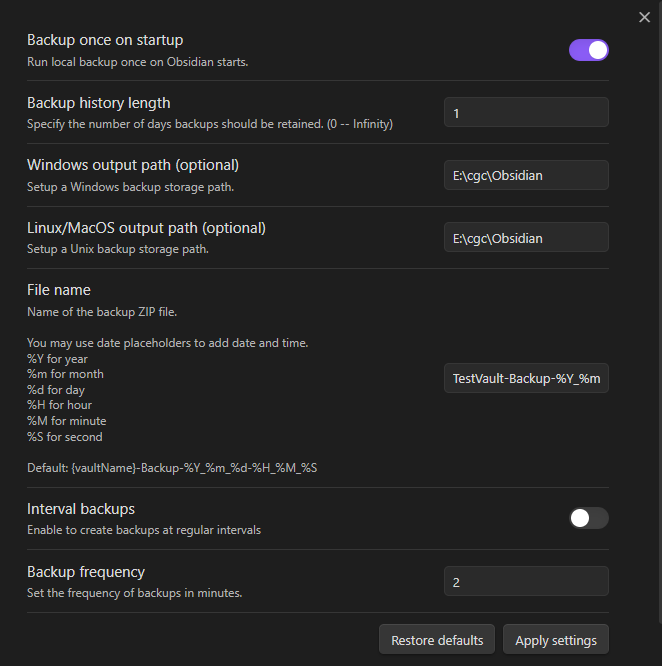
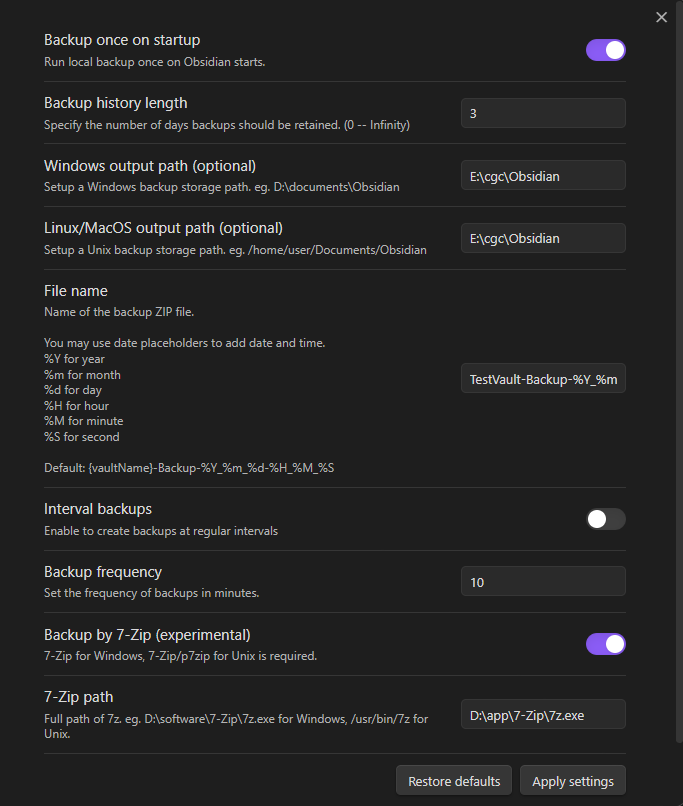
update: screenshot and README.

diff --git a/README.md b/README.md
@@ -11,7 +11,7 @@ Automatically creates a local backup of the vault.
 - Backup on startup
 - Setup backups' lifecycle
 - Customize output path
-- Inteval backups
+- Interval backups
 
 ## How to use
 
@@ -24,12 +24,13 @@ Automatically creates a local backup of the vault.
 1. Setup the output path depends on your computer platform.
 2. Setup the Windows and Unix output path while you using these two platforms.
 3. If you want to keep one backup per day, here is an example of file name format: `TestVault-Backup-%Y_%m_%d`
+4. (Experimental) If you have a large size vault and Obsidian stucks on backing up, please try the experimental feature in setting page.
 
 > *To apply settings immediately, click the `Apply settings` button.*
 
 > *If you turn on interval backups, it is recommended to set a reasonable bakcup frequency, e.g. >=10min, this plugin costs CPU resources and Disk I/O resources, backup frequently will cause lagging.*
 
-> *For user who owns a vault with large size, it is recommended to close the interval backups and only do a backup on startup.*
+> *For user who owns a vault with large size, it is recommended to turn on `Backup by 7-Zip` in setting page, the experimental feature of the latest version.*
 
 ### Run a local backup command
 
@@ -71,12 +72,12 @@ Enter the command panel using `Ctrl + p`.
 - [x] Customize the backup storage path.
 - [x] Add a command to create a backup.
 - [x] Add interval backup.
-- [ ] Backup notes without `/.obsidian`.
-- [ ] More customization in Settings page.
+- [x] Backup by calling `7-Zip`.
 
 ## Reference
 
 - [adm-zip](https://github.com/cthackers/adm-zip)
+- [7-Zip](https://www.7-zip.org/)
 
 ## License
 
